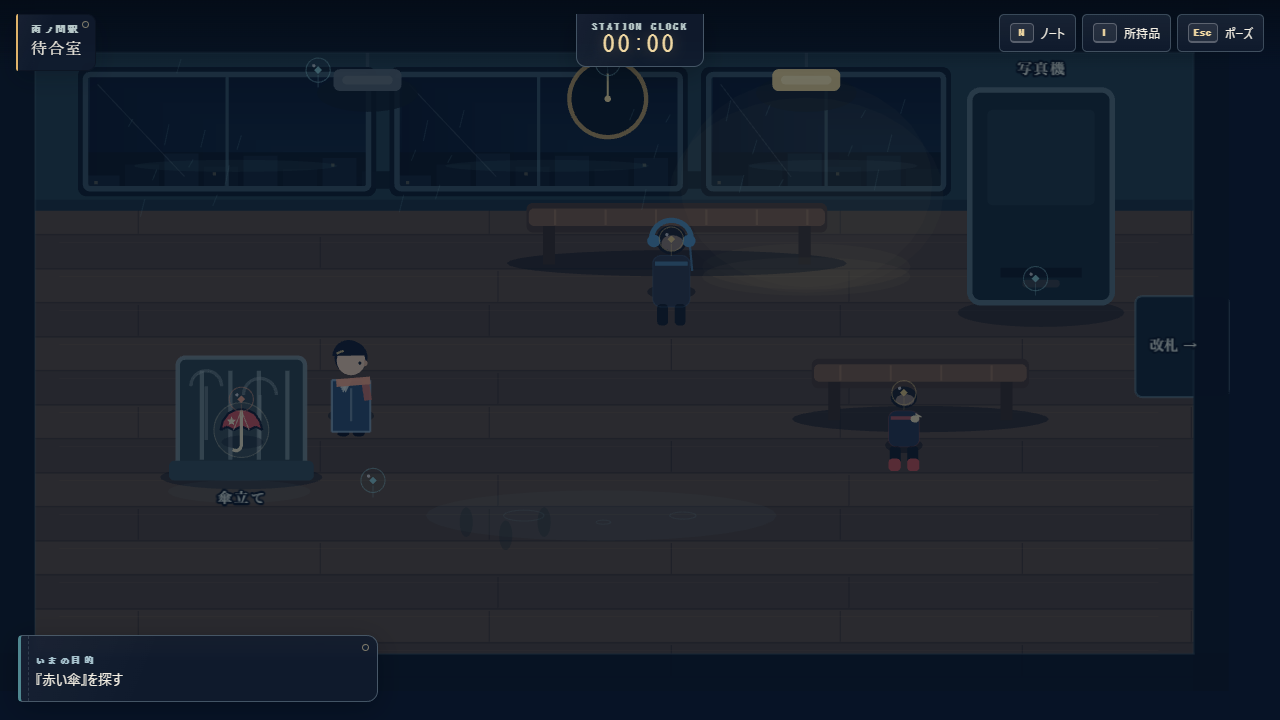
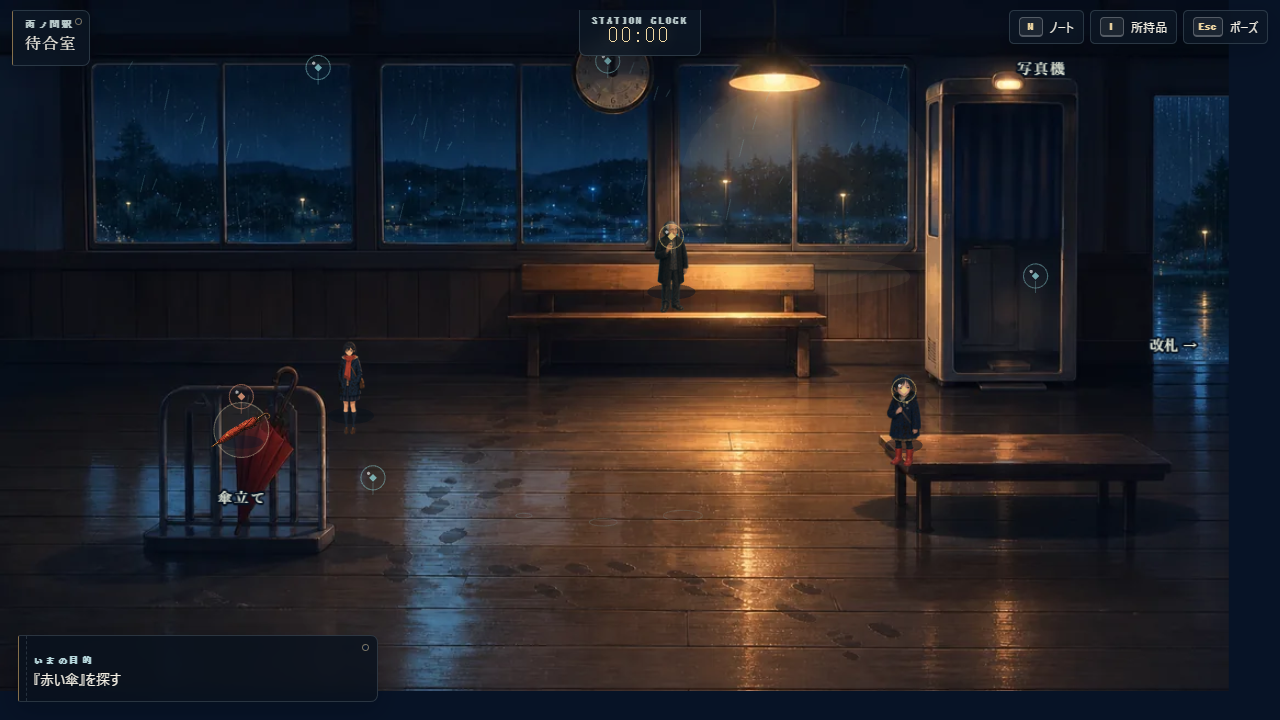
docs: record art v3 production release [skip ci]

diff --git a/docs/DEPLOYMENT.md b/docs/DEPLOYMENT.md
@@ -1,208 +1,93 @@
-# 公開手順と本番確認 — Visual Overhaul V2
+# 公開手順と本番確認 — Art Quality V3
 
-## 現在の状態
+## Published release
 
-| 項目 | 値 |
+| Item | Value |
 | --- | --- |
-| 既存公開URL | <https://himiko119.github.io/rain-shelter-station/> |
-| GitHub repository | <https://github.com/himiko119/rain-shelter-station> |
-| 作業／保存branch | `codex/visual-overhaul-v2` |
-| workflowの自動trigger branch | `codex/rain-shelter-station-game` |
-| GitHub Pages反映 | 完了 |
-| 公開URLスモークテスト | 3環境すべて合格 |
-| GitHub Actions run | [29304611687](https://github.com/himiko119/rain-shelter-station/actions/runs/29304611687) |
-| Visual release commit | `0704a5b1416e8e2bb7f853b234e87476f74a29e2` |
-| Pages deployment ID | `5434973792` |
-| Deploy完了 | 2026-07-14 12:54:24（Asia/Tokyo） |
-| 本番スモーク完了 | 2026-07-14 12:55:18（Asia/Tokyo） |
+| Public URL | <https://himiko119.github.io/rain-shelter-station/> |
+| Repository | <https://github.com/himiko119/rain-shelter-station> |
+| Feature branch | `codex/art-quality-v3` |
+| Pages branch | `codex/rain-shelter-station-game` |
+| Pull request | [#1 Art Quality V3](https://github.com/himiko119/rain-shelter-station/pull/1) |
+| Release merge commit | `a55f3facfbf85cfb2c966be09a2fb0cc0823a15f` |
+| Actions run | [29355517252](https://github.com/himiko119/rain-shelter-station/actions/runs/29355517252) |
+| Pages deployment ID | `5445348692` |
+| Deploy completed | 2026-07-15 02:52:25 JST |
+| Production smoke completed | 2026-07-15 02:57 JST |
 
-`codex/visual-overhaul-v2`を`codex/rain-shelter-station-game`へfast-forwardし、visual release commit `0704a5b`をGitHub Pagesへ配信した。`artifacts/playtest/11-production-desktop-1280x720.png`〜`13-production-edge-1280x720.png`は、この公開版を実URLから撮影し直した本番証跡である。
+The feature branch was pushed, reviewed through PR #1 and merged without force-push. The workflow built the merge commit, uploaded `dist` and deployed the same SHA to the `github-pages` environment.
 
-## 今回の公開結果
+## Workflow result
 
-- `codex/visual-overhaul-v2`をremoteへ保存した。
-- 公開branchを`21a9ae9`から`0704a5b`へfast-forwardし、force pushなしで更新した。
-- Actions build jobは17秒、deploy jobは8秒で成功した。
-- Pages deployment `5434973792`はvisual release SHAと一致した。
-- HTTPS公開URLへ`npm run verify:live`を実行し、Chromium desktop、Chromium mobile touch、Edge desktopがすべて合格した。
-- 3環境とも初回操作後のAudioContextは`running`、save/reloadは成功、HTTP 4xx/5xx、request failure、page error、console errorは0件だった。
+| Job | Result | Duration |
+| --- | --- | ---: |
+| build | success | 22 s |
+| deploy | success | 8 s |
 
-## Release candidateの内容
+The workflow uses `actions/checkout@v7`, Node.js 22, `npm ci`, `npm run build`, `actions/upload-pages-artifact@v5` and `actions/deploy-pages@v5`. It needs no application secret or environment variable. Vite `base: "./"` keeps images, JavaScript, CSS and favicon valid under the repository subpath.
 
-今回のbranchは、gameplay artworkを外部画像からloadせず、Phaser GraphicsとDOM/CSSだけで生成する。
+## Release contents
 
-- 5 areaのprocedural background
-- playable Nagi、駅員、5人の乗客、鏡側Nagi
-- 6 itemのworld shapeとDOM sketch
-- dialogue portrait、notebook、inventory、memory、final choice、3 ending
-- rain、lamp glow、wet reflection
-- desktop fixed camera、tablet／portrait follow camera
-- 390×844のsafe cameraとobjective／touch controls分離
+- 57 typed project-original runtime images / 4,048,796 bytes
+- Five distinct station areas and three platform stages
+- Four-direction Nagi idle/walk plus inspect/acquire actions
+- Six passenger idle sprites and 17 dialogue portraits
+- Six shared lost-item images and six memory stills
+- Separate title, final choice and three ending compositions
+- Procedural/CSS fallback for every progression-relevant visual
+- Save schema remains `saveVersion: 1`
 
-save schemaは変更しておらず、`saveVersion: 1`と`rain-shelter-station.save.v1`を継続する。
+## Pre-publish gates
 
-## 現行GitHub Pages workflow
-
-workflowは`.github/workflows/deploy-pages.yml`にある。
-
-### Trigger
-
-- `codex/rain-shelter-station-game`へのpush
-- `workflow_dispatch`による手動実行
-
-`codex/visual-overhaul-v2`をpushしただけでは、自動trigger branchが異なるためdeployは始まらない。公開時は次のいずれかを、差分確認後に明示的に選ぶ。
-
-1. visual overhaulを`codex/rain-shelter-station-game`へ統合してpushする。
-2. 別のreviewed changeでworkflowのtrigger branchを意図したrelease branchへ変更する。
-3. `workflow_dispatch`でvisual overhaulのcommit／refを明示して手動実行する。
-
-今回は方法1を実施し、fast-forward後のpushでworkflowを開始した。
-
-### Build / deploy job
-
-| Step | Current configuration |
-| --- | --- |
-| Checkout | `actions/checkout@v7` |
-| Node | `actions/setup-node@v6` / Node.js 22 / npm cache |
-| Install | `npm ci` |
-| Build | `npm run build` |
-| Artifact | `actions/upload-pages-artifact@v5`、`dist` |
-| Deploy | `actions/deploy-pages@v5` |
-
-workflow permissionsは`contents: read`、`pages: write`、`id-token: write`。Pages environment名は`github-pages`。環境変数とproduction secretは不要である。
-
-Viteは`base: "./"`、build targetは`es2022`、sourcemap有効。相対baseのためrepository subpathのPages URLでassetを解決する。
-
-現行workflowが実行するのはTypeScriptを含む`npm run build`だけであり、ESLint、Vitest、Playwright、`verify:prod`はjob内にない。公開前にローカルで全検証を済ませる必要がある。
-
-## 公開前ローカル検証
-
-実行順:
-
-~~~powershell
+```powershell
 npm ci
 npx playwright install chromium
 npm run check
 npm run test:e2e
-~~~
+```
 
-`npm run check`は次を実行する。
-
-~~~text
-lint
-typecheck
-Vitest
-production build
-production sentinel scan
-~~~
-
-今回の最終ローカル結果:
-
-| Check | Result |
+| Gate | V3 result |
 | --- | --- |
-| `npm run check` | 成功 |
-| ESLint | 成功 |
-| TypeScript | 成功 |
-| Vitest | 7 files / 57 tests 成功 |
-| Vite production build | 成功 |
-| `verify:prod` | production JavaScript 1 bundle、E2E／DEV sentinelなし |
-| `npm run test:e2e` | 6 files / 11 tests中11件成功 |
-| visual evidence | before 15枚 / after 20枚 |
+| ESLint | passed |
+| TypeScript | passed |
+| Vitest | 9 files / 75 tests passed |
+| Playwright | 13/13 passed |
+| Vite build | passed |
+| production sentinel | passed |
+| Design QA | `final result: passed` |
+| local after evidence | 20/20 reviewed |
 
-### Build output
+The sole build warning is the existing non-failing Phaser JavaScript chunk-size warning.
 
-| Asset | Raw | Gzip |
-| --- | ---: | ---: |
-| HTML | 0.68 kB | 0.46 kB |
-| JavaScript | 1,372.22 kB | 370.74 kB |
-| JavaScript source map | 10,288.55 kB | — |
-| CSS | 57.64 kB | 13.29 kB |
+## Production smoke
 
-Vite warningは、Phaserを含むJavaScript chunkが500 kBを超えるという非失敗warningだけである。CSS、asset resolution、TypeScript、sentinel scanのerrorではない。
+`npm run verify:live` opens the actual HTTPS URL, starts the game, confirms Canvas and DOM HUD, triggers Web Audio, verifies the save key, reloads, checks that Continue is enabled, rejects production E2E/dev globals, checks favicon/network/browser errors and captures a stable post-fade frame.
 
-## Mobile release gate
+| Profile | Browser | Audio | Save/reload | Errors | Result |
+| --- | --- | --- | --- | ---: | --- |
+| desktop 1280×720 | Chromium 149.0.7827.55 | running | passed | 0 | passed |
+| mobile 390×844 touch | Chromium 149.0.7827.55 | running | passed | 0 | passed |
+| desktop 1280×720 | Microsoft Edge 150.0.4078.65 | running | passed | 0 | passed |
 
-390×844ではportrait cameraを全画面の裏へ敷かず、UI-safe viewportへ制限する。
+Mobile also passed no-horizontal-overflow, objective/control separation and 44×44 minimum touch-target checks. Production images were opened and visually reviewed:
 
-| Value | Final |
-| --- | ---: |
-| zoom | 1.32 |
-| camera viewport top | 62 px |
-| camera viewport height | 478.16 px |
-| camera viewport bottom | 約540.16 px |
-| safe bottom inset | 303.84 px（profile request 304 px） |
-| objective / controls | objective bottom ≤ controls top |
-| touch target | 44×44 px以上 |
+- `artifacts/playtest/11-production-desktop-1280x720.png`
+- `artifacts/playtest/12-production-mobile-390x844.png`
+- `artifacts/playtest/13-production-edge-1280x720.png`
 
-E2Eはscreen Y=670のcamera外tapでplayerが移動しないことも確認する。公開後も同じviewportで、Canvas下端、objective、direction pad、interact buttonが重ならないことを再確認する。
+All three show the V3 waiting-room illustration and normalized sprite/item art. The Edge and Chromium desktop compositions match; mobile keeps the world, objective and touch controls in separate vertical zones.
 
-## Publish procedure
+## Deployment trigger
 
-1. `git status`で意図したsource、docs、artifactだけが対象であることを確認する。
-2. `node_modules`、`dist`、Playwright temporary outputをcommit対象にしない。
-3. 意味のあるcommitを作り、選択したrelease refへpushする。
-4. GitHub ActionsのPages workflowを開始する。
-5. build jobの`npm ci`、`npm run build`、artifact uploadを確認する。
-6. deploy jobのPages environment URLを確認する。
-7. run ID、commit SHA、deploy時刻、公開URLを本書へ追記する。
-8. 下記のproduction smoke testを行う。
-9. 全項目が成功してからREADMEの公開状態注記を更新する。
-
-公開前は未発行のrun ID、commit SHA、最終時刻を先に書かず、workflowと本番スモーク完了後に実値を追記した。
-
-## Production smoke test
-
-### Desktop 1280×720
-
-- 公開URLがHTTP 200で開く。
-- title logo、station scene、4 menuが表示される。
-- 「はじめから」でCanvas、Nagi、HUD、objectiveが表示される。
-- keyboard移動、interact、dialogue、notebook、inventoryが動作する。
-- 最初のuser gesture後にWeb Audioが開始する。
-- save後のreloadで「つづきから」が有効になる。
-- JavaScript、CSS、faviconに404／request failureがない。
-- page errorと重大なconsole errorがない。
-
-### Mobile 390×844 touch
-
-- documentとbodyに横scrollがない。
-- camera viewport下端が約540pxで、objectiveとtouch controlsに重ならない。
-- direction pad、interact、notebook、inventory、pauseが動作する。
-- 全touch targetが44×44px以上である。
-- camera外のUI領域tapがworld移動へ変換されない。
-- dialogue、notebook、inventoryで本文やclose buttonが切れない。
-
-### Save / production-only checks
-
-- storage keyは`rain-shelter-station.save.v1`。
-- 旧`saveVersion: 1` dataをそのまま復元できる。
-- save削除後にreloadしても削除前stateが復活しない。
-- source bundleに`__RAIN_SHELTER_E2E__`と`__RAIN_SHELTER_DEV_PANEL__`がない。
-- debug panel、named scenario UI、任意state injectionが公開画面にない。
-
-## Production evidence
-
-公開確認後に、最低限次を記録する。
-
-| Evidence | Current |
-| --- | --- |
-| GitHub Actions run URL / ID | [29304611687](https://github.com/himiko119/rain-shelter-station/actions/runs/29304611687) / success |
-| deployed commit SHA | `0704a5b1416e8e2bb7f853b234e87476f74a29e2` |
-| Pages deployment timestamp | 2026-07-14 12:54:24（Asia/Tokyo） |
-| desktop screenshot | `artifacts/playtest/11-production-desktop-1280x720.png`、目視合格 |
-| mobile screenshot | `artifacts/playtest/12-production-mobile-390x844.png`、目視合格 |
-| Edge smoke result | Edge 150.0.4078.65、合格 |
-| network / console summary | 3環境とも0 error |
-
-`npm run verify:live`は、検査した最新公開版の証跡として既存`artifacts/playtest/11-*`〜`13-*`を更新する。公開前のローカルpreview結果はcommitせず、公開URLに対する3環境検査が成功した後の画像だけを記録する。
+`.github/workflows/deploy-pages.yml` runs on pushes to `codex/rain-shelter-station-game` and `workflow_dispatch`. A feature-branch push alone stores the work but does not publish it. Release changes should reach the Pages branch through a reviewed PR or a verified fast-forward/merge without force-push.
 
 ## Rollback
 
-本番で進行不能、blank screen、asset 404、save破損が見つかった場合は、既知の正常commitを同じPages workflowで再deployする。今回save schemaは変わらないため、visual overhaulをrollbackしてもschema migrationの巻き戻しは不要である。
+If production develops a blank screen, asset 404, save regression or input failure, redeploy the previous known-good merge through the same workflow. Art V3 did not change the storage key, serialized fields or current save version, so rollback does not require reverse migration.
 
 ## Remaining non-blockers
 
-- Firefox／WebKitはChromiumと同じ深さでは未確認。
-- Phaserを含む単一JavaScript chunkは大きい。初期loadが実測で問題になった時にcode splittingを検討する。
-- system font差によりworld labelとDOM textの字幅が変わる可能性がある。
-- Web Audioはbrowserのautoplay policyに従い、最初のuser gesture後に開始する。
+- Firefox/WebKit do not have equivalent depth of automation.
+- System Japanese font metrics may vary by OS.
+- Phaser remains in one large initial JavaScript chunk.
+- Web Audio still waits for the first user gesture as required by browser autoplay policy.

diff --git a/docs/ART_QUALITY_V3_REPORT.md b/docs/ART_QUALITY_V3_REPORT.md
@@ -102,3 +102,7 @@ The only build warning is Vite's non-failing 500kB chunk warning for the Phaser-
 - Mobile intentionally prioritizes text over large dialogue portraits.
 - Phaser is still delivered in one large initial JavaScript chunk.
 - Static scenery is presentation-only; authoritative collision and exits remain the tested content geometry.
+
+## Production release
+
+PR [#1](https://github.com/himiko119/rain-shelter-station/pull/1) merged V3 into the Pages branch as `a55f3facfbf85cfb2c966be09a2fb0cc0823a15f`. Actions run [29355517252](https://github.com/himiko119/rain-shelter-station/actions/runs/29355517252) completed build and deploy successfully. The public URL passed Chromium desktop, Chromium 390×844 touch and Microsoft Edge checks with running audio, successful save/reload and zero browser/network errors.

diff --git a/docs/PLAYTEST_REPORT.md b/docs/PLAYTEST_REPORT.md
@@ -92,3 +92,7 @@ Static art state is not serialized. Loading or failing an image cannot alter pro
 - System Japanese font metrics can vary by OS.
 - Phaser remains part of one large initial JavaScript chunk.
 - Mobile intentionally omits large dialogue busts to preserve text area.
+
+## Production verification
+
+GitHub Pages release `a55f3fa` was verified at <https://himiko119.github.io/rain-shelter-station/>. Chromium desktop, Chromium 390×844 touch and Microsoft Edge each passed start, Canvas/DOM visibility, AudioContext `running`, save/reload, favicon/network, production-debug absence and zero-error checks. The three public screenshots in `artifacts/playtest/11-production-*` through `13-production-*` were opened after a stable post-fade capture and passed visual review.

diff --git a/README.md b/README.md
@@ -4,7 +4,7 @@
 
 **[公開版をブラウザでプレイ](https://himiko119.github.io/rain-shelter-station/)**
 
-> Art Quality V3では、57点のproject-original画像、方向別sprite、人物別portrait、6枚の記憶画、タイトル／最終選択／3エンディングを統合しました。公開URLはV3配信後にChromium desktop、390×844 touch、Microsoft Edgeで再検証します。
+> Art Quality V3はGitHub Pagesへ公開済みです。release merge commit `a55f3fa` を2026-07-15 02:52（JST）に配信し、公開URLをChromium desktop、390×844 touch、Microsoft Edgeで再検証しました。
 
 ![Art Quality V3のタイトル画面](artifacts/art-quality-v3/after/desktop/01-title-1280x720.png)
 
